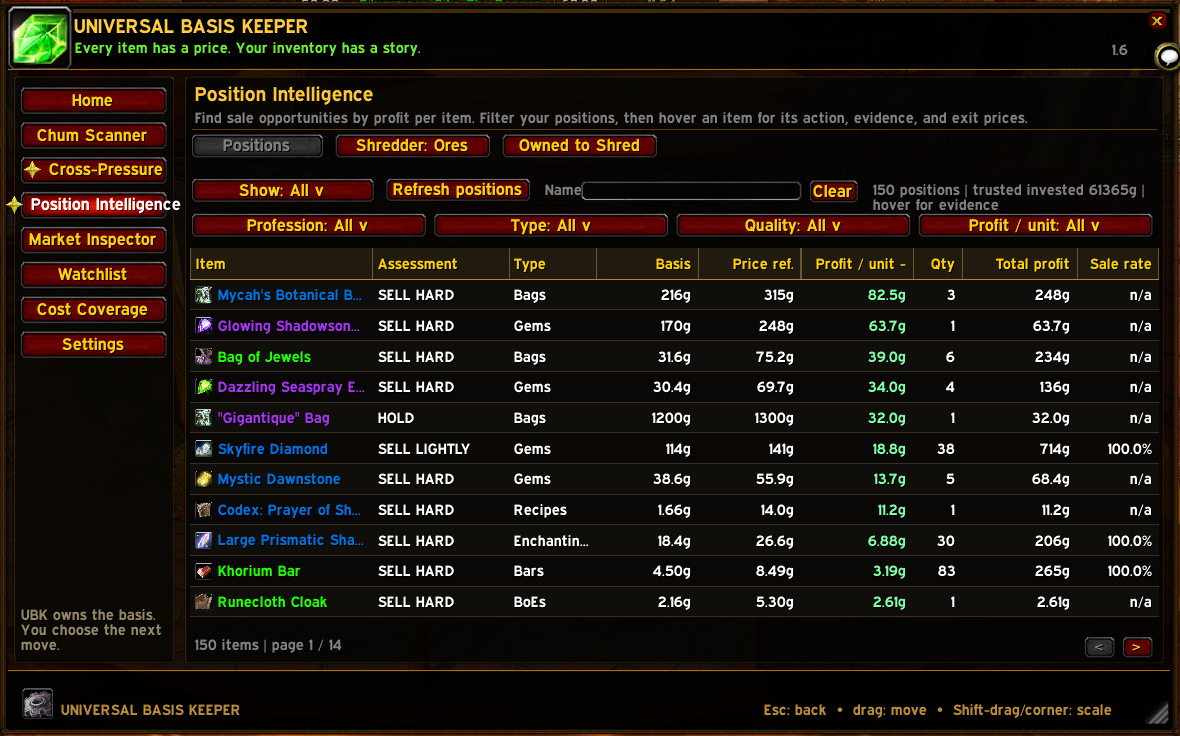
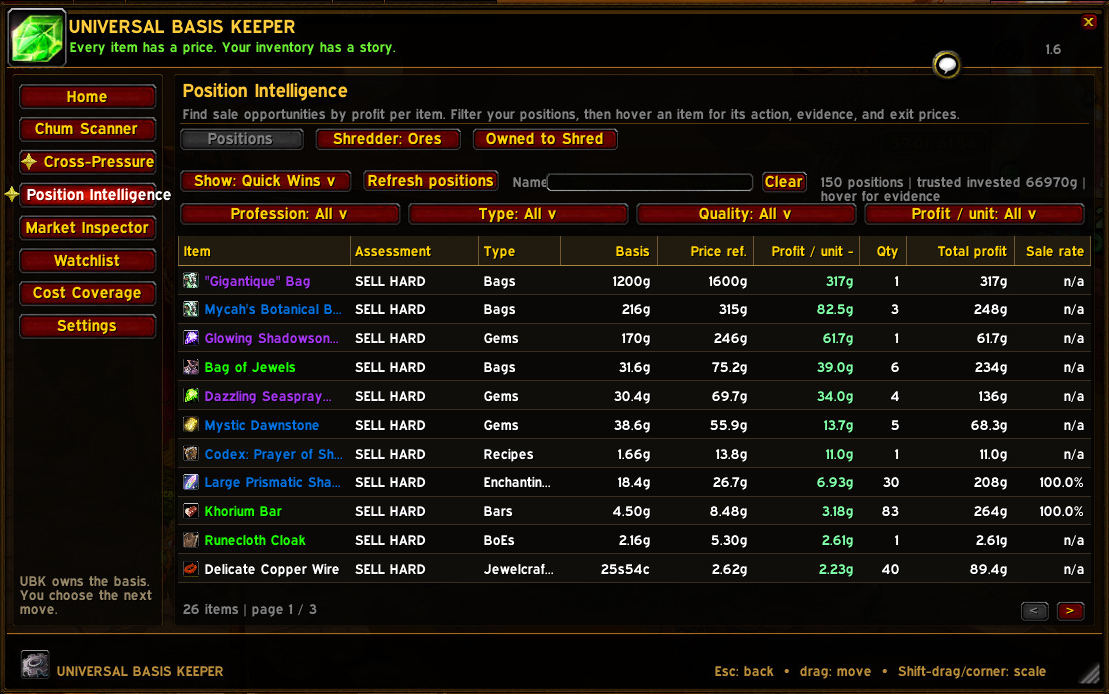
Use complete cropped screenshots in the Khorium walkthrough

Changed region(s): [[0.0, 0.0, 1.0, 1.0], [0.8584, 0.817, 0.9197, 0.8473]]

diff --git a/scripts/repair_public_screenshots.py b/scripts/repair_public_screenshots.py
@@ -15,15 +15,15 @@ REPO = 'Jcplugs/UBK-Universal-Basis-Keeper'
 RELEASE_ID = 383815484
 OLD = {
[7 lines of base64/hex data omitted]
 }
 DOCS = ['README.md', 'RELEASE.md', 'docs/KHORIUM-WALKTHROUGH.md',
         'docs/screenshots/README.md']
-IMAGES = ['ubk-position-overview', 'ubk-khorium-recorded', 'ubk-khorium-tsm-listings']
-REMOVED = {'docs/screenshots/' + n + '.jpg' for n in IMAGES +
-           ['ubk-khorium-assessment', 'ubk-khorium-live-scan']}
+IMAGES = ['ubk-position-overview', 'ubk-khorium-assessment', 'ubk-khorium-recorded',
+          'ubk-khorium-live-scan', 'ubk-khorium-tsm-listings']
+REMOVED = {'docs/screenshots/' + n + '.jpg' for n in IMAGES}
 REMOVED.add('docs/screenshots/ubk-home.png')
 
 def digest(data):

diff --git a/docs/KHORIUM-WALKTHROUGH.md b/docs/KHORIUM-WALKTHROUGH.md
@@ -1,12 +1,12 @@
 # From a holding to the AH: examining Khorium Bars
 
-An actual UBK 1.6 session on 7 September 2026, shown through cropped views of the relevant UBK and TSM panels. The player starts with Position Intelligence, checks the recorded cost and loaded market context, scans the live AH, and opens the listings in TSM. These are observations from that session, not current price advice or sample data installed with UBK.
+An actual Khorium Bar examination in UBK 1.6, illustrated with captures taken on the morning of 7 September 2026. Follow the workflow from Position Intelligence through recorded cost, loaded market context, a live AH scan, and TSM listings. The images focus on the relevant windows and controls. Prices vary slightly between captures; these are observations from that morning, not current price advice or sample data installed with UBK.
 
 ## 1. Find the holding
 
-With **Show: All**, Position Intelligence ranks the holdings by **Profit / unit**. The Khorium Bar row shows **83 owned**, **4.50g basis**, an **8.49g price reference**, about **3.19g estimated profit per bar**, and **265g estimated total profit**. Its assessment is **SELL HARD**.
+With **Show: Quick Wins**, Position Intelligence ranks the holdings by **Profit / unit**. The Khorium Bar row shows **83 owned**, **4.50g basis**, an **8.48g price reference**, about **3.18g estimated profit per bar**, and **264g estimated total profit**. Its assessment is **SELL HARD**.
 
-Quantity and total profit stay beside the per-item ranking, so the player can see both the opportunity per bar and the size of the holding. The reference is loaded market data; no live scan has been performed yet in this sequence.
+Quantity and total profit stay beside the per-item ranking, so the player can see both the opportunity per bar and the size of the holding. The price reference comes from loaded market data; Market Inspector displays the live AH quote separately.
 
 ![Position Intelligence showing Khorium Bars among the player's holdings](screenshots/ubk-position-overview.png)
 
@@ -16,10 +16,11 @@ Hovering Khorium Bar opens the reasoning and price levels. The tooltip identifie
 
 The same tooltip shows **49 units** as the estimated sales needed to cover this position's current basis, leaving **34 units**. That assumes sales at the displayed loaded reference and costs; it is not a record of completed sales.
 
+![Complete Khorium Bar assessment tooltip, from the SELL HARD reasoning through the price ladder and mouse actions](screenshots/ubk-khorium-assessment.png)
 
 ## 3. Examine the recorded cost and market context
 
-Clicking the row opens **Market Inspector** for Khorium Bar. The **4.50g basis** and full cost coverage remain visible alongside distinct market references: **8.47g AuctionDB minimum buyout**, **8.49g recent realm reference**, and **5.68g regional reference** in this capture. The live-quote status explicitly says **not scanned yet**.
+Clicking the row opens **Market Inspector** for Khorium Bar. In this pre-scan capture, the **4.50g basis** and full cost coverage remain visible alongside distinct market references: **8.47g AuctionDB minimum buyout**, **8.49g recent realm reference**, and **5.68g regional reference**. The live-quote status explicitly says **not scanned yet**.
 
 This is where the player checks what the first assessment was built from. The loaded data's age is shown as unknown in this session; it is not presented as a freshly observed listing.
 
@@ -29,15 +30,16 @@ This is where the player checks what the first assessment was built from. The lo
 
 At the Auction House, **Scan Now** searches for the inspected item. This completed scan shows a live quote rounded to **8.44g**, **919 units observed**, and the timestamp **11:55:58**. The quote and quantity describe that completed scan. They are separate from the **83 bars owned** and the **4.50g recorded basis**.
 
-Scanning updates the live quote without replacing acquisition cost. The earlier captures include a previous completed scan with 934 units; the later count alone does not identify purchases, cancellations, or who changed the listings.
+Scanning updates the live quote without replacing acquisition cost. This close-up keeps the scan result, recorded basis, cost coverage, and loaded references together.
 
+![Market Inspector detail showing a completed 8.44g live scan with 919 units alongside the unchanged 4.50g acquisition basis](screenshots/ubk-khorium-live-scan.png)
 
 ## 5. Open the listings in TSM
 
-**TSM Browse** opens the exact-item search. The results show sellers, stack sizes, and unit buyouts, with the lowest visible listing at **8g44s09c**. The image focuses on the exact-item search and its first visible listings; the player's surrounding interface is excluded.
+**TSM Browse** opens the exact-item search. This later capture shows **Scan Complete**, sellers, stack sizes, and unit buyouts, with the lowest visible listing at **8g44s04c**. The full TSM results window is visible, including the controls below the list.
 
 The sequence stops at examination. It shows how a player checks an opportunity before deciding what to do; it does not show a completed sale or realized profit.
 
-![TSM's exact Khorium Bar search with the first visible live listings](screenshots/ubk-khorium-tsm-listings.png)
+![TSM's completed exact Khorium Bar search with visible listings and auction controls](screenshots/ubk-khorium-tsm-listings.png)
 
 [Return to the overview](../README.md) · [Position Intelligence instructions](../USER_GUIDE.md#position-intelligence)

diff --git a/README.md b/README.md
@@ -16,7 +16,7 @@ TSM's Desktop Application is **optional and recommended**. UBK can track costs w
 
 ## Install and take a first look
 
-Download the [installer](installer.exe), [complete source ZIP](source.zip), or [full download folder](https://github.com/Jcplugs/UBK-Goblin/blob/main/UBK-1.6.zip). The standalone addon is in [Interface/AddOns/UniversalBasisKeeper](Interface/AddOns/UniversalBasisKeeper).
+Download the [installer](installer.exe), [complete source ZIP](source.zip), or [full download folder](https://github.com/Jcplugs/UBK-Universal-Basis-Keeper/blob/main/UBK-1.6.zip). The standalone addon is in [Interface/AddOns/UniversalBasisKeeper](Interface/AddOns/UniversalBasisKeeper).
 
 1. Close WoW and run `installer.exe` for a new installation or an update.
 2. Choose the `_anniversary_` client folder containing `WowClassic.exe` and `Interface`. The installer checks for TSM, backs up supported old code, and preserves your local history and settings.
@@ -41,11 +41,11 @@ These assessments use currently loaded TSM data. Open Market Inspector and scan 
 
 ### Follow an actual Khorium Bar examination
 
-In this session, a player reviews **83 Khorium Bars at 4.50g basis**, opens the assessment, then checks the **8.49g loaded reference** against a completed AH scan around **8.44g** and the actual TSM listings. [Follow the Khorium walkthrough](docs/KHORIUM-WALKTHROUGH.md) to see the recorded cost, estimated profit, live quote, and listings in sequence.
+These captures show a player reviewing **83 Khorium Bars at 4.50g basis**, opening the assessment, and comparing loaded references of **8.48–8.49g** with a completed AH scan around **8.44g** and the actual TSM listings. [Follow the Khorium walkthrough](docs/KHORIUM-WALKTHROUGH.md) to see the recorded cost, estimated profit, live quote, and listings. Prices vary slightly between the captures taken that morning.
 
 ![Position Intelligence with Khorium Bar's basis, price reference, profit per unit, quantity, and total profit](docs/screenshots/ubk-position-overview.png)
 
-![Khorium Bar's actual TSM Browse search and first visible listings](docs/screenshots/ubk-khorium-tsm-listings.png)
+![Khorium Bar's completed TSM Browse search, visible listings, and auction controls](docs/screenshots/ubk-khorium-tsm-listings.png)
 
 ## A cost is different from a sale price
 

diff --git a/RELEASE.md b/RELEASE.md
@@ -24,7 +24,7 @@ Review what you hold against your recorded basis and loaded market prices. Each 
 
 Quick Wins requires fully covered, trusted costs, at least 15% estimated net return, and liquidity not marked thin. Profit estimates include the 5% AH cut and a reserve for one failed 24-hour deposit when vendor value is available. Incomplete costs remain **COST NEEDED**, with profit withheld. Loaded prices are estimates: check current AH listings before acting.
 
-See the [Khorium Bar examination](https://github.com/Jcplugs/UBK-Goblin/blob/main/docs/KHORIUM-WALKTHROUGH.md): 83 bars at 4.50g recorded basis, followed from the position assessment through a completed live scan and the TSM listings.
+See the [Khorium Bar examination](https://github.com/Jcplugs/UBK-Universal-Basis-Keeper/blob/main/docs/KHORIUM-WALKTHROUGH.md): 83 bars at 4.50g recorded basis, illustrated from the position assessment through a completed live scan and the TSM listings.
 
 ## Also in UBK 1.6
 

diff --git a/docs/screenshots/README.md b/docs/screenshots/README.md
@@ -1,9 +1,12 @@
 # UBK interface captures
 
 Captured from the owner's UBK 1.6 session on 7 September 2026, with permission.
-The documentation uses crops of the relevant UBK panels and TSM results.
-The crops preserve the original displayed text and values and exclude the
-surrounding character interface, bags, and chat.
+The documentation uses crops of the relevant UBK panels, complete assessment
+tooltip, live-scan details, and TSM results window. The crops preserve the
+original displayed text and values and exclude the character name, bags, and
+chat. The tooltip retains its original translucent background.
 
 The Khorium walkthrough distinguishes recorded cost, loaded market references,
-and a completed live scan. See ../KHORIUM-WALKTHROUGH.md.
+and a completed live scan. Captures were taken at different moments that morning;
+their prices should be read as displayed in each view. See
+[the walkthrough](../KHORIUM-WALKTHROUGH.md).
